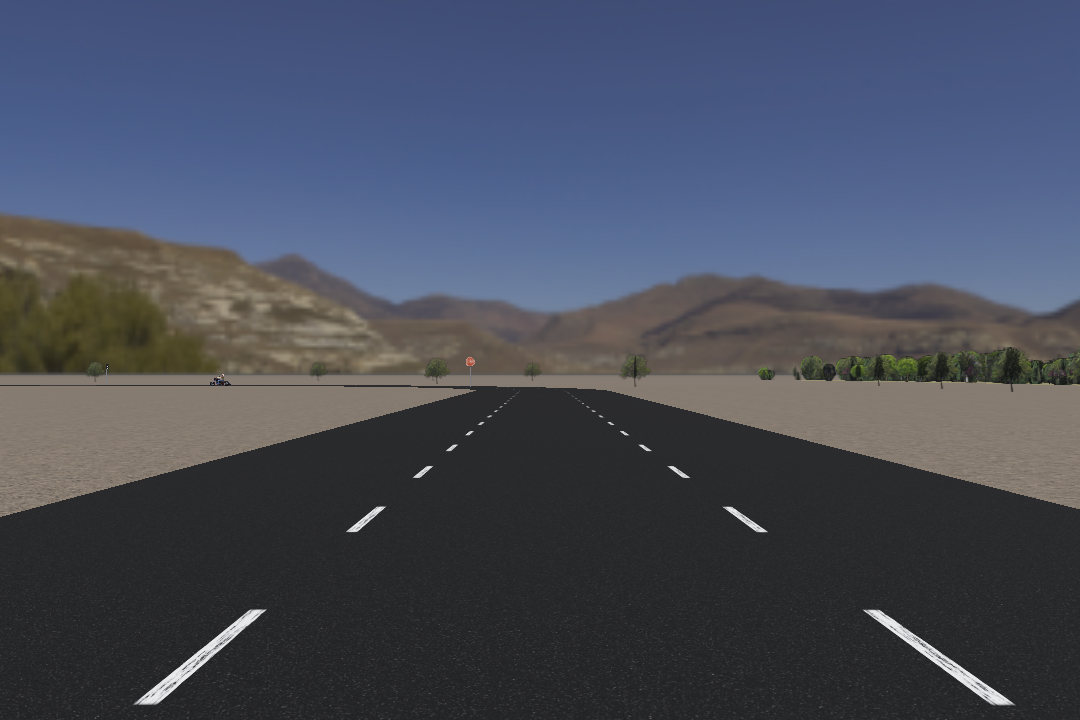
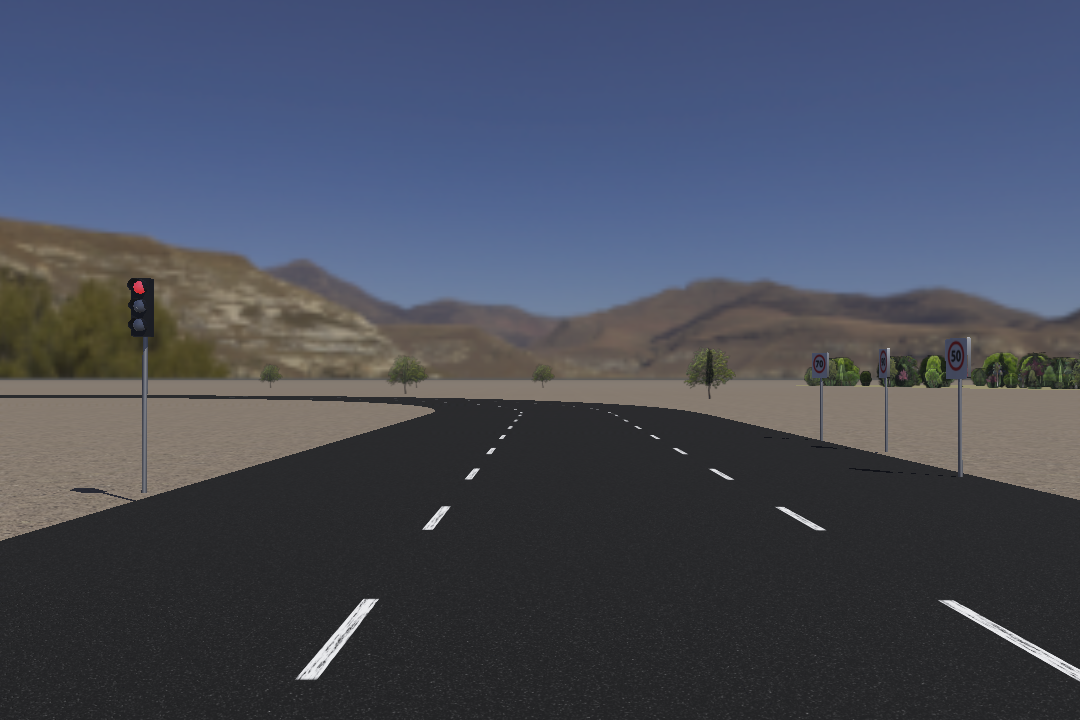
att

diff --git a/webots/controllers/my_controller/my_controller.py b/webots/controllers/my_controller/my_controller.py
@@ -8,7 +8,7 @@ import cv2
 import numpy as np
 import time
 from detect_lines import criaImagem
-from fuzzy_logic import controleLinha,controlePlacaPare
+from fuzzy_logic import controleLinha,controlePlacaPare,controleSemaforo
 
 # Constants.
 INPUT_WIDTH = 640
@@ -27,7 +27,6 @@ BLACK  = (0,0,0)
 BLUE   = (255,178,50)
 YELLOW = (0,255,255)
 RED = (0,0,255)
-
 
 
 
@@ -58,7 +57,7 @@ def pre_process(input_image, net):
 	return outputs
 
 
-def post_process(input_image, outputs,driver,placaPare,velocidadeLimite):
+def post_process(input_image, outputs,velocidadeLimite,driver,placaPare):
 	# Lists to hold respective values while unwrapping.
 	class_ids = []
 	confidences = []
@@ -113,42 +112,49 @@ def post_process(input_image, outputs,driver,placaPare,velocidadeLimite):
 		right = left + width
 		bottom = top + height
 		cropped_image = input_image[top:bottom, left:right] # Slicing to crop the image
-
+		#cv2.imshow("cropped", cropped_image)
+		#cv2.waitKey(1)
 		
 		cv2.rectangle(input_image, (left, top), (left + width, top + height), BLUE, 2*THICKNESS)
 				
 		label = "{}:{:.2f}".format(classes[class_ids[i]], confidences[i])
 		draw_label(input_image, label, left, top)
 		
-		if (classes[class_ids[i]]) == "traffic lightt":
-			print(classes[class_ids[i]], confidences[i])
-			print((right-left)*(bottom-top))
+		if (classes[class_ids[i]]) == "traffic light":
+			#print(classes[class_ids[i]], confidences[i])
+			#metric_traffic_light.append(confidences[i])
+			#print((right-left)*(bottom-top))
 			color = ('b','g','r')
-			ax.clear()
+			#ax.clear()
 			for i,col in enumerate(color):
 				histr = cv2.calcHist([cropped_image],[i],None,[256],[0,256])
-				ax.plot(histr,color = col)
+				#ax.plot(histr,color = col)
+				#plt.xlim([0,256])
+				if (col == 'g'):
+					hist_verde = np.sum(histr[150:200])
+					print((right-left)*(bottom-top))
+					if hist_verde > 130:
+						driver.setCruisingSpeed(velocidadeLimite)
+					else:
+						velocidade = controleSemaforo((right-left)*(bottom-top))
+						driver.setCruisingSpeed(velocidade)
+           			
+			#plt.pause(0.1)
 
-
-		if (classes[class_ids[i]]) == "stop sign":
+		elif (classes[class_ids[i]]) == "stop sign":
+			placaPare = True
+			velocidade = controleSemaforo((right-left)*(bottom-top))
+			driver.setCruisingSpeed(velocidade)
 			#print(classes[class_ids[i]], confidences[i])
-			placaPare = True			
-			#velocidade = controlePlacaPare((right-left)*(bottom-top))
-			#if velocidade <= velocidadeLimite:
-			#	driver.setCruisingSpeed(velocidade)
-			if((right-left)*(bottom-top) >1500):
-				driver.setCruisingSpeed(0)
-			print("Placa de pare!")
-			print("Distancia: ", (right-left)*(bottom-top))
-
-
-
-		if (classes[class_ids[i]]) == "carr":
-			print(classes[class_ids[i]], confidences[i])
-			print((right-left)*(bottom-top))
-		if (classes[class_ids[i]]) == "personn":
-			print(classes[class_ids[i]], confidences[i])
-			print((right-left)*(bottom-top))
+			#metric_stop_sign.append(confidences[i])
+			#print((right-left)*(bottom-top))
+			continue
+			
+		elif (classes[class_ids[i]]) == "person":
+			#print(classes[class_ids[i]], confidences[i])
+			#metric_person.append(confidences[i])
+			#print((right-left)*(bottom-top))
+			continue
 	return input_image,placaPare
 
 
@@ -175,11 +181,11 @@ if __name__ == '__main__':
 	net = cv2.dnn.readNet(modelWeights)
 	# Load image.
 	frame = cv2.imread(image)
-	driver.setCruisingSpeed(50)
+	driver.setCruisingSpeed(70)
 
 	#Para a logica do controle
 	placaPare = False
-	velocidadeLimite = 50
+	velocidadeLimite = 70
 	angulo = 0 
 	anguloAntigo = 0
 	i=0	
@@ -193,7 +199,7 @@ if __name__ == '__main__':
 		cameraData = camera.getImage()		
 		image = np.frombuffer(cameraData, np.uint8).reshape((camera.getHeight(), camera.getWidth(), 4))
 		image = image[:, :, :3]
-		if True:
+		if False:
 			try:
 			#detecta as linhas e devolve o erro
 				erro = criaImagem(image)
@@ -205,22 +211,46 @@ if __name__ == '__main__':
 				#print("saiu da rua!") 
 				continue
 				#driver.setSteeringAngle(controleLinha(-anguloAntigo))				
-		if False:		
-			print(driver.getCurrentSpeed())
+		i += 1
+		print("Velocidade real: ",driver.getCurrentSpeed())
+		if i % 10 == 0:
+			cameraData = camera.getImage()
+			#imageRGB = [cameraData[i] for i in range(0, camera.getHeight()*camera.getWidth()*3)]
+			#imageRGB = bytes(imageRGB)
+		
+			#convertendo bytes para np array
+			image = np.frombuffer(cameraData, np.uint8).reshape((camera.getHeight(), camera.getWidth(), 4))
+			#print(image.shape)
+			
+			#Elimina o quarto canal da imagem
+			image = image[:, :, :3]
+			
+			#print(image.shape)
+			
 			cv2.imwrite("frame.png", image)
-
+			
 			# Load video.
 			#frame = cv2.VideoCapture('video_teste.mp4')
-
+			
 			# Process image.
 			detections = pre_process(image, net)
-			img,placaPare = post_process(image.copy(), detections,driver,placaPare,velocidadeLimite)
-
+			img,placaPare = post_process(image.copy(), detections,velocidadeLimite,driver,placaPare)
+			
 			# Put efficiency information. The function getPerfProfile returns the overall time for inference(t) and the timings for each of the layers(in layersTimes)
 			t, _ = net.getPerfProfile()
 			label = 'Inference time: %.2f ms' % (t * 1000.0 / cv2.getTickFrequency())
+			#print(label)
+			#cv2.putText(img, label, (20, 40), FONT_FACE, FONT_SCALE, RED, THICKNESS, cv2.LINE_AA)
+			
+			#cv2.imshow('Output', img)
+			#cv2.waitKey(1)
 
-			cv2.putText(img, label, (20, 40), FONT_FACE, FONT_SCALE, RED, THICKNESS, cv2.LINE_AA)
-
-
-			cv2.waitKey(1)
+			#media_farol = np.mean(metric_traffic_light)
+			#media_placa_pare = np.mean(metric_stop_sign)
+			#media_person = np.mean(metric_person)
+			#print('media_farol')
+			#print(media_farol)
+			#print('media_placa_pare')
+			#print(media_placa_pare)
+			#print('media_person')
+			#print(media_person)

diff --git a/webots/controllers/my_controller/fuzzy_logic.py b/webots/controllers/my_controller/fuzzy_logic.py
@@ -10,33 +10,32 @@ import skfuzzy
 
 
 
-def controleFreio():
-    #Velocidade e freio
-    distanciaPlaca = control.Antecedent(np.arange(1,10,0.1), 'distanciaPare')
-    distaciaFarol = control.Antecedent(np.arange(1,10,0.1), 'distaciaFarol')
-    velocidade = control.Antecedent(np.arange(1,10,0.1), 'velocidade')
-    tipoPlaca = control.Antecedent(np.arange(1,6,1), 'tipoPlaca')
+def controleSemaforo(disctancia):
+    disctControle = control.Antecedent(np.arange(0,2500,1), 'disctControle')
+    velControle = control.Consequent(np.arange(-1,50,0.1), 'velControle')
 
-    distanciaPlaca['perto'] = skfuzzy.trapmf(distanciaPlaca.universe, [1,1,4,6])
-    distanciaPlaca['medio'] = skfuzzy.trapmf(distanciaPlaca.universe, [1,1,4,6])
-    distanciaPlaca['longe'] = skfuzzy.trapmf(distanciaPlaca.universe, [1,1,4,6])
-    distanciaPlaca['none']=  skfuzzy.trapmf(distanciaPlaca.universe, [1,1,4,6])
+    disctControle['proximo'] = skfuzzy.trapmf(disctControle.universe, [899,1000,2500,2500])
+    disctControle['medio'] = skfuzzy.trimf(disctControle.universe, [400,600,901])
+    disctControle['distante'] = skfuzzy.trimf(disctControle.universe, [0,0,500])
 
-    distaciaFarol['verde'] = skfuzzy.trapmf(distaciaFarol.universe, [1,1,4,6])
-    distaciaFarol['perto'] = skfuzzy.trapmf(distaciaFarol.universe, [1,1,4,6])
-    distaciaFarol['medio'] = skfuzzy.trapmf(distaciaFarol.universe, [1,1,4,6])
-    distaciaFarol['longe'] = skfuzzy.trapmf(distaciaFarol.universe, [1,1,4,6])
+    velControle['baixa'] = skfuzzy.zmf(velControle.universe, -10,30)
+    velControle['media'] = skfuzzy.smf(velControle.universe, 20,50)
+    velControle['pare'] = skfuzzy.trimf(velControle.universe, [-0.1,0,0.1])
 
-    velocidade['alta']= skfuzzy.trapmf(velocidade.universe, [1,1,4,6])
-    velocidade['media']= skfuzzy.trapmf(velocidade.universe, [1,1,4,6])
-    velocidade['baixa']= skfuzzy.trapmf(velocidade.universe, [1,1,4,6])
-    velocidade['parado']= skfuzzy.trapmf(velocidade.universe, [1,1,4,6])
+    regras = []
+    regras.append(control.Rule(disctControle['distante'] ,velControle['media']))
+    regras.append(control.Rule(disctControle['medio'] ,velControle['baixa']))
+    regras.append(control.Rule(disctControle['proximo'] ,velControle['pare']))
 
-    tipoPlaca['pare']= skfuzzy.trimf(tipoPlaca.universe, [0.5,1,1.5])
-    tipoPlaca['altaV']= skfuzzy.trimf(tipoPlaca.universe, [1.5,2,2.5])
-    tipoPlaca['mediaV']= skfuzzy.trimf(tipoPlaca.universe, [2.5,3,3.5])
-    tipoPlaca['baixaV']= skfuzzy.trimf(tipoPlaca.universe, [3.5,4,4.5])
-    tipoPlaca['baixaV']= skfuzzy.trimf(tipoPlaca.universe, [4.5,5,5.5])
+
+    pareControl = control.ControlSystem(regras)
+    pareSimulacao = control.ControlSystemSimulation(pareControl)  
+    #pareSimulacao.input['disctControle'] = 1200
+    pareSimulacao.input['disctControle'] = disctancia
+    pareSimulacao.compute()     
+    print("Velocidade: ",pareSimulacao.output['velControle'])
+    return pareSimulacao.output['velControle']
+
 
 
 
@@ -73,9 +72,9 @@ def controleLinha(erro,anguloAntigo):
     erroLinha = control.Antecedent(np.arange(-1000,1000,0.1), 'erroLinha')
     angulo = control.Consequent(np.arange(-0.15, 0.15, 0.001), 'angulo')
     
-    erroLinha['direita']= skfuzzy.trapmf(erroLinha.universe, [-50,400,1000,1000])    
+    erroLinha['direita']= skfuzzy.trapmf(erroLinha.universe, [100,600,1000,1000])    
     erroLinha['meio'] = skfuzzy.trimf(erroLinha.universe, [-200,0,200])
-    erroLinha['esquerda']= skfuzzy.trapmf(erroLinha.universe, [-1000,-1000,-400,50])
+    erroLinha['esquerda']= skfuzzy.trapmf(erroLinha.universe, [-1000,-1000,-600,-100])
 
 
     angulo['direita'] = skfuzzy.smf(angulo.universe, -0.01, 0.1)
